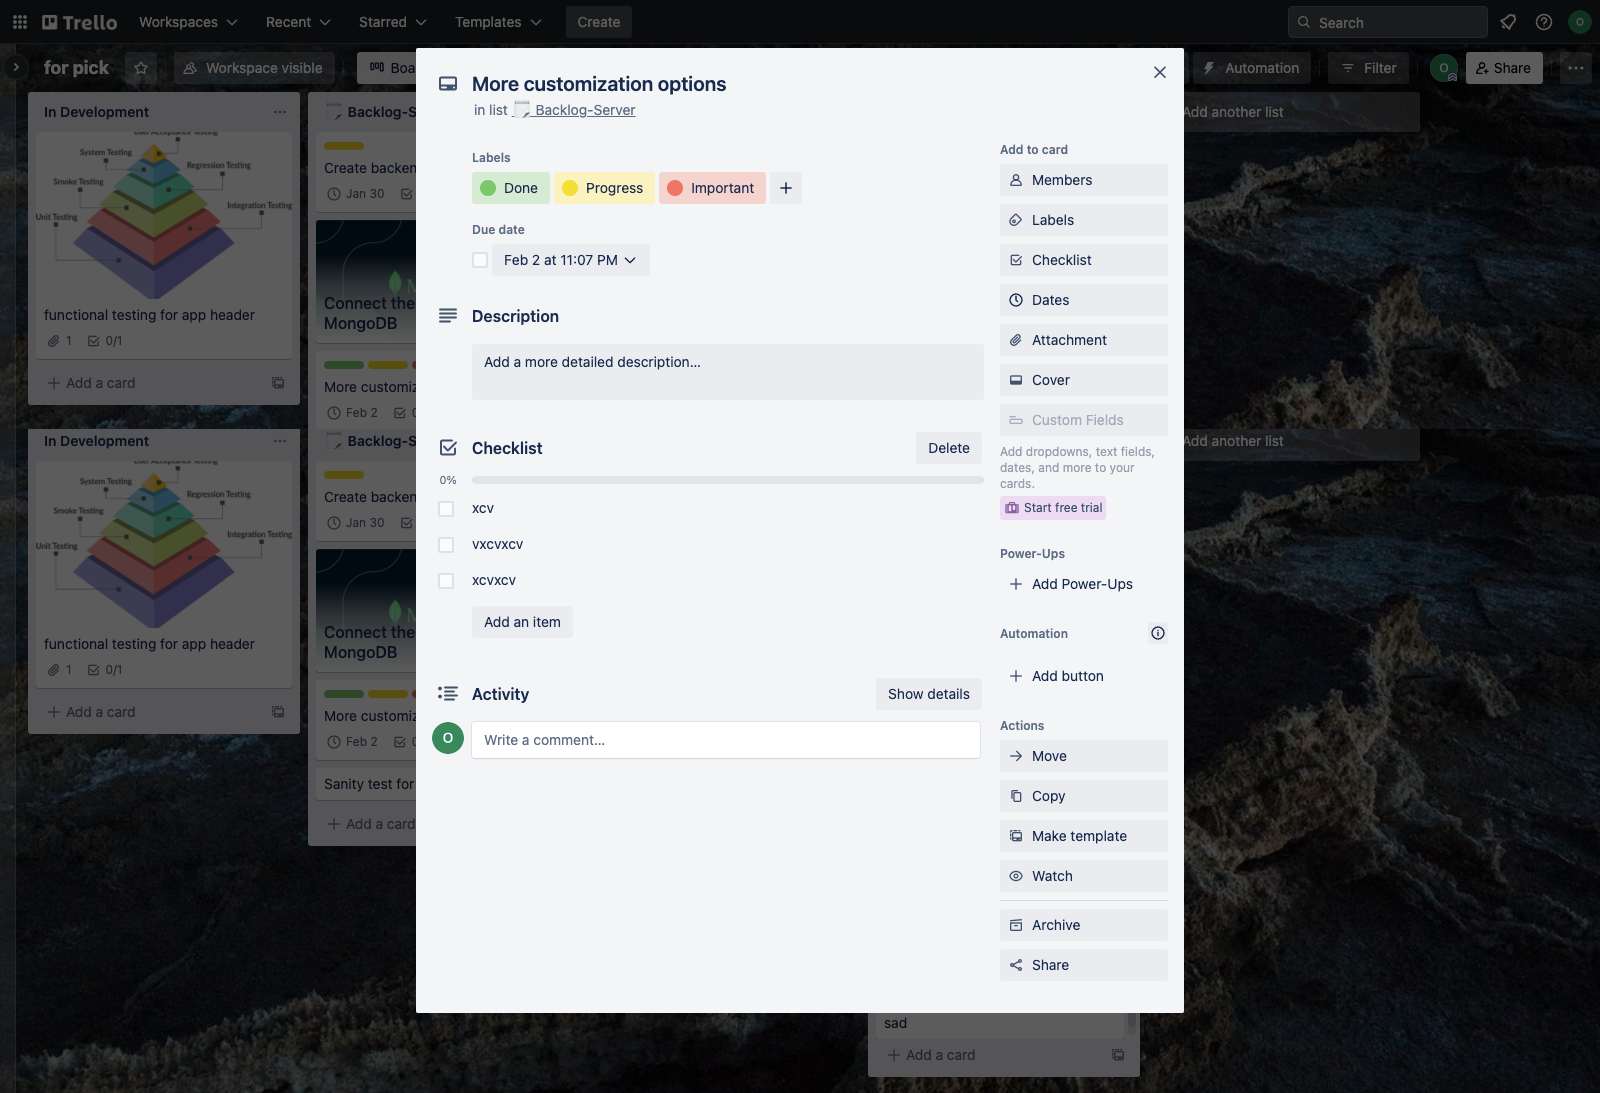
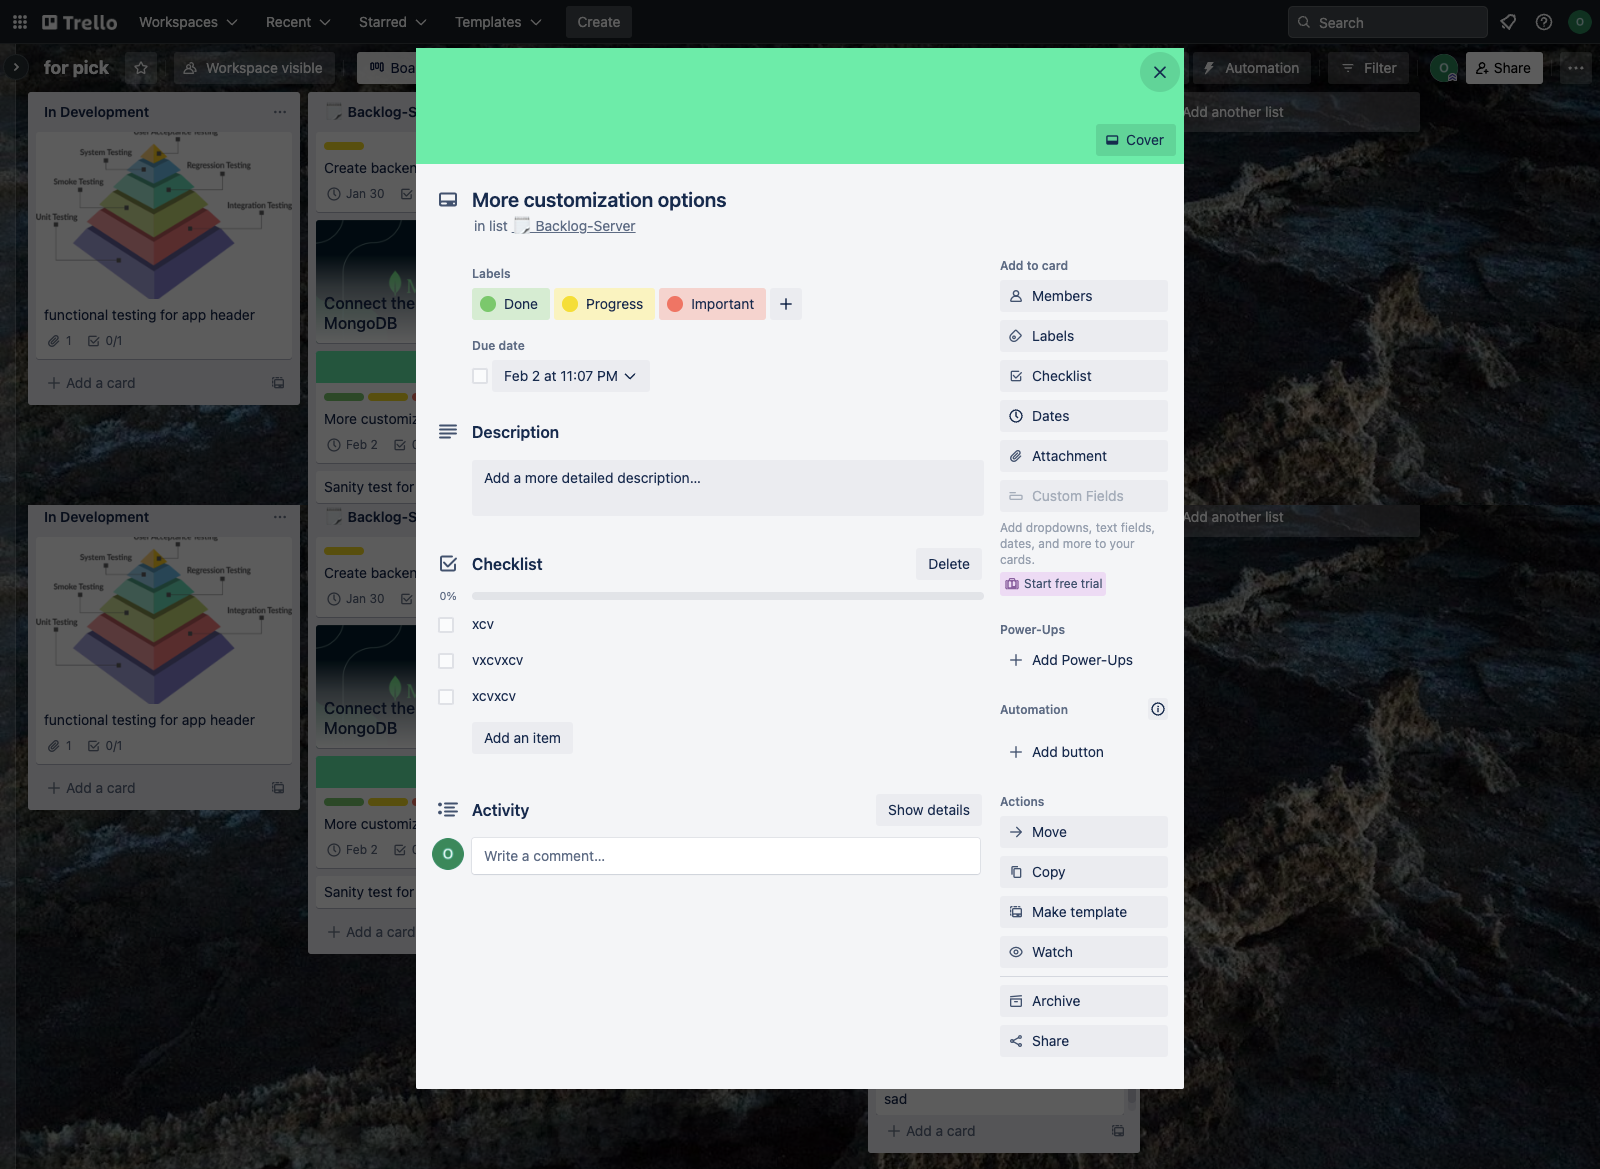
fixed modal details layout

diff --git a/frontend/src/cmps/task/task-details/task-details-checklist.jsx b/frontend/src/cmps/task/task-details/task-details-checklist.jsx
@@ -1,35 +1,36 @@
+import ProgressBar from "@ramonak/react-progress-bar";
+import React from "react";
+
 import { ChecklistIcon } from "../../../assets/svg/icon-library";
 
-export function TaskDetailsChecklist({ checklists }) {
-    console.log('checklists: ', checklists);
+export function TaskDetailsChecklist({ checklist }) {
+    console.log('checklist: ', checklist.todos);
+    const todosIsDont = checklist.todos.filter(todo => todo.isDone).length * 100
+    const completed = Math.floor((todosIsDont / checklist.todos.length))
 
-    if (!checklists) return
+    if (!checklist) return
     return (
 
-        <section className='task-details-checklist'>
-            <div className="task-checklists">
-                {checklists.map(checklist =>
-                    <div key={checklist._id}>
-                        <div className="flex align-center ">
-
-                            <h1>{checklist.title}</h1>
-                        </div>
-                        <div className="task-todos flex column ">
-                            {checklist.todos.map(todo =>
-                                <div key={todo._id}>
-                                    <input className="icon-title"
-                                        type="checkbox"
-                                        defaultChecked={todo.isDone}
-                                    />
-                                    <div className={todo.isDone ? 'line-through ' : ''}>
-                                        {todo.title}
-                                    </div>
-                                </div>
-                            )}
-                        </div>
+        <section className='task-details-checklist-container'>
+            <h3>{checklist.title}</h3>
+            <div className="progressBar-container ">
+                <h3>{`${completed}%`}</h3>
+                <div>
+                    <ProgressBar
+                        completed={completed}
+                        bgColor="#5ba4cf"
+                        height="8px"
+                        labelColor="#5ba4cf"
+                    />
+                </div>
+            </div>
+            <div className="check-box-container" >
+                {checklist.todos.map(todo =>
+                    <div className="check-box" key={todo._id}>
+                        <input type="checkbox" />
+                        <p >{todo.title}</p>
                     </div>
-                )
-                }
+                )}
             </div>
         </section >
     )

diff --git a/frontend/src/views/task-details.jsx b/frontend/src/views/task-details.jsx
@@ -24,7 +24,7 @@ export function TaskDetails() {
 
     const [group, setGroup] = useState({})
 
-    const [task, setTask, handleChange] = useForm({})
+    const [task, setTask, handleChange] = useForm(null)
 
     const navigate = useNavigate()
 
@@ -75,12 +75,9 @@ export function TaskDetails() {
     console.log('task: ', task);
     return (
         <section className='task-details'>
-            <div className="black-screen" onClick={() => navigate(`/board/${board._id}`)}></div>
-            <div className="main-task-details">
+            <div className="black-screen" onClick={() => navigate(`/board/${board._id}`)}>            </div>
 
-                {/* <button onClick={() => navigate(`/board/${board._id}`)}
-                    className="btn details-close-btn"><CloseIcon />
-                </button> */}
+            <div className="main-task-details">
 
                 <DetailsHeader onUpdateHeadline={onUpdateHeadline} task={task} group={group} />
 
@@ -103,12 +100,17 @@ export function TaskDetails() {
                         <TaskDetailsDescription handleChange={handleChange} description={task.description} onSaveTask={onSaveTask} />
                     </div>
 
-                    {/* {task?.checklists &&
-                        <div className="checklist-container flex">
+                    {task?.checklists &&
+                        <div className="checklists-container flex">
                             <ChecklistIcon className="icon-title" />
-                            <TaskDetailsChecklist checklists={task.checklists} />
+                            {task.checklists.map(checkList =>
+
+                                <TaskDetailsChecklist key={checkList._id} checklist={checkList} />
+
+                            )}
                         </div>
-                    } */}
+                    }
+
                     <div className="activity-container flex">
                         <ActivityIcon className="icon-title" />
                         <TaskDetailsActivity />
@@ -136,7 +138,6 @@ export function TaskDetails() {
                 <TaskDetailsSideMenu onRemoveTask={onRemoveTask} />
 
             </div>
-
         </section >
     )
 }

diff --git a/frontend/src/cmps/task/task-details/task-details-header.jsx b/frontend/src/cmps/task/task-details/task-details-header.jsx
@@ -1,12 +1,46 @@
+import { useEffect, useState } from "react";
 import { TaskTitleIcon, TitleIcon } from "../../../assets/svg/icon-library";
 import { DetilsTitle } from "./task-details-title";
 
 export function DetailsHeader({ onUpdateHeadline, task, group }) {
+
+    const [isCover, setIsCover] = useState()
+
+    useEffect(() => {
+
+    }, [])
+
+    let styleBgColor
+    let styleBgImg
+
+    if (task.style) {
+        styleBgColor = {
+            backgroundColor: `${task.style.bgColor}`,
+            minHeight: "116px",
+            maxHeight: "116px",
+        }
+        styleBgImg = {
+            backgroundImage: `url(${task.style.img})`,
+            minHeight: "160px",
+            maxHeight: "160px",
+        }
+    }
+
+    function taskPreviewImgCover() {
+        console.log('in:')
+        if (task.style.bgColor) return styleBgColor
+        else return styleBgImg
+    }
+
     return (
         <section className='header-title-container'>
             <div className="image-cover-container">
-                {task?.style && <div className="task-details-cover"></div>}
-                {/* {task?.style?.image && <div className="task-details-img "></div>} */}
+                {/* <button onClick={() => navigate(`/board/${board._id}`)}
+                    className="btn details-close-btn"><CloseIcon />
+                </button> */}
+
+                {task.style.bgColor && <div style={taskPreviewImgCover()} className="task-details-cover"></div>}
+                {!task.style.bgColor && <div style={taskPreviewImgCover()} className="task-details-img "></div>}
             </div>
 
             <div className="header-title-title-container flex  align-center">

diff --git a/frontend/src/assets/styles/views/_task-details.scss b/frontend/src/assets/styles/views/_task-details.scss
@@ -1,20 +1,51 @@
+.task-details {
+    overflow-y: scroll;
+    position: fixed;
+    inset: 0;
+    height: 100%;
+    position: fixed;
+    inset: 0;
+    background-color: #000000a3;
+    opacity: 0;
+    transition: opacity 0.6s;
+    pointer-events: none;
+    z-index: 1;
+    box-shadow: -6px 0px 14px rgb(0 0 0 / 20%);
+    pointer-events: auto;
+    opacity: 1;
+    bottom: 0;
+    overflow-y: auto;
+    position: absolute;
+    z-index: 2;
+}
+
+.black-screen {
+    height: 100%;
+    position: absolute;
+    inset: 0;
+    pointer-events: auto;
+    position: absolute;
+    z-index: 2;
+}
+
 .main-task-details {
     color: #172b4d;
     background-color: #f4f5f7;
+    position: relative;
     min-height: 600px;
-    position: fixed;
     left: 50%;
-    top: 50%;
-    transform: translate(-50%, -50%);
+    top: 0%;
+    transform: translate(-50%, 0%);
     z-index: 2;
     box-shadow: -6px 0px 14px rgb(0 0 0 / 20%);
     width: 768px;
-    height: 100%;
-    margin-top: 47px;
+    margin-top: 48px;
+    border-radius: 3px;
     display: grid;
+    height: max-content;
+    margin-bottom: 50px;
     grid-template-columns: 20px 3fr 1fr;
     grid-template-rows: minmax(32px, max-content) 1fr;
-    padding: 0;
     grid-template-areas:
         "header  header  header"
         "content  content  aside";
@@ -124,9 +155,4 @@
     grid-area: content;
     padding-left: 1.2rem;
 
-}
-
-.task-details-checklist {
-    margin: 0 0 4px 40px;
-    color: #5e6c84
 }

diff --git a/frontend/src/assets/styles/cmps/_task-details-checklist.scss b/frontend/src/assets/styles/cmps/_task-details-checklist.scss
@@ -1,0 +1,55 @@
+.checklists-container {
+    padding-top: 1.4rem;
+    width: 100%;
+
+    svg,
+    path {
+        margin-top: -0.2rem;
+        margin-left: 0.2rem;
+        height: 20px !important;
+        width: 20px !important;
+    }
+
+    .task-details-checklist-container {
+        width: 100%;
+        margin: 0 0 1rem 0.8rem;
+
+    }
+
+    .progressBar-container {
+        width: 100%;
+        display: flex;
+        padding-top: 1.3rem;
+
+        h3 {
+            font-size: 11px;
+            margin-left: -2rem;
+        }
+
+        >div {
+            margin-left: 0.6rem;
+            width: 100%;
+        }
+    }
+
+    .check-box-container {
+        width: 100%;
+        padding-top: 0.8rem;
+
+        .check-box {
+            margin-bottom: 1rem;
+        }
+
+        input {
+            font-size: 11px;
+            margin-left: -1.8rem;
+
+        }
+
+        p {
+            margin-top: -1.5rem;
+
+        }
+
+    }
+}

diff --git a/frontend/src/assets/styles/basics/_helpers.scss b/frontend/src/assets/styles/basics/_helpers.scss
@@ -72,20 +72,6 @@
     @include aspect-ratio(9, 16);
 }
 
-.black-screen {
-    position: fixed;
-    inset: 0;
-    background-color: #000000a3;
-    opacity: 0;
-    transition: opacity 0.6s;
-    pointer-events: none;
-    z-index: 1;
-    box-shadow: -6px 0px 14px rgb(0 0 0 / 20%);
-    max-height: 100vh;
-    pointer-events: auto;
-    opacity: 1;
-}
-
 .display-none {
     display: none;
 }

diff --git a/frontend/src/assets/styles/cmps/_task-details-description.scss b/frontend/src/assets/styles/cmps/_task-details-description.scss
@@ -31,7 +31,15 @@
     }
 
     .des-container {
-        padding: 1.2rem 0.5rem;
+        padding: 1.2rem 0.7rem;
         cursor: pointer;
+
+        .description-fake-text-area {
+            background-color: #ebecf0;
+            min-height: 55px;
+            border-radius: 3px;
+            padding: 8px 12px;
+
+        }
     }
 }

diff --git a/frontend/src/assets/styles/main.scss b/frontend/src/assets/styles/main.scss
@@ -37,8 +37,11 @@
 @import 'cmps/task-details-header';
 @import 'cmps/task-details-lable-members-date';
 @import 'cmps/task-details-activity';
+@import 'cmps/task-details-checklist';
 
 @import 'cmps/user-avatar-icon';
+
+@import 'cmps/progress-bar';
 //VIEWS
 @import 'views/home-page';
 @import 'views/board-details';

diff --git a/frontend/src/cmps/task/task-preview/task-preview.jsx b/frontend/src/cmps/task/task-preview/task-preview.jsx
@@ -5,7 +5,6 @@ import { PenIcon } from "../../../assets/svg/icon-library";
 import { MiniLabelList } from "./task-preview-mini-labels-list";
 
 export function TaskPreview({ task, idx }) {
-    console.log('task: ', task);
 
     const { boardId } = useParams()
     const navigate = useNavigate()

diff --git a/frontend/src/assets/styles/cmps/_task-details-header.scss b/frontend/src/assets/styles/cmps/_task-details-header.scss
@@ -13,6 +13,9 @@
     }
 
     .task-details-img {
+        background-position: center;
+        background-size: cover;
+        background-repeat: no-repeat;
         width: 100%;
         min-height: 160px;
         max-height: 160px;

diff --git a/frontend/src/views/board-details.jsx b/frontend/src/views/board-details.jsx
@@ -13,7 +13,6 @@ export function BoardDetails() {
         loadBoard(boardId)
     }, [])
 
-    console.log(board);
     const style = {
         backgroundImage: `url(${board.style.bgImgURL})`
     }

diff --git a/frontend/src/assets/styles/cmps/_task-details-lable-members-date.scss b/frontend/src/assets/styles/cmps/_task-details-lable-members-date.scss
@@ -2,7 +2,7 @@
     display: flex;
 
     flex-wrap: wrap;
-    margin: 2rem 0 0.2rem 2.2rem;
+    padding: 2.5rem 0 0.2rem 2.3rem;
 
     p {
         font-size: 12px;
